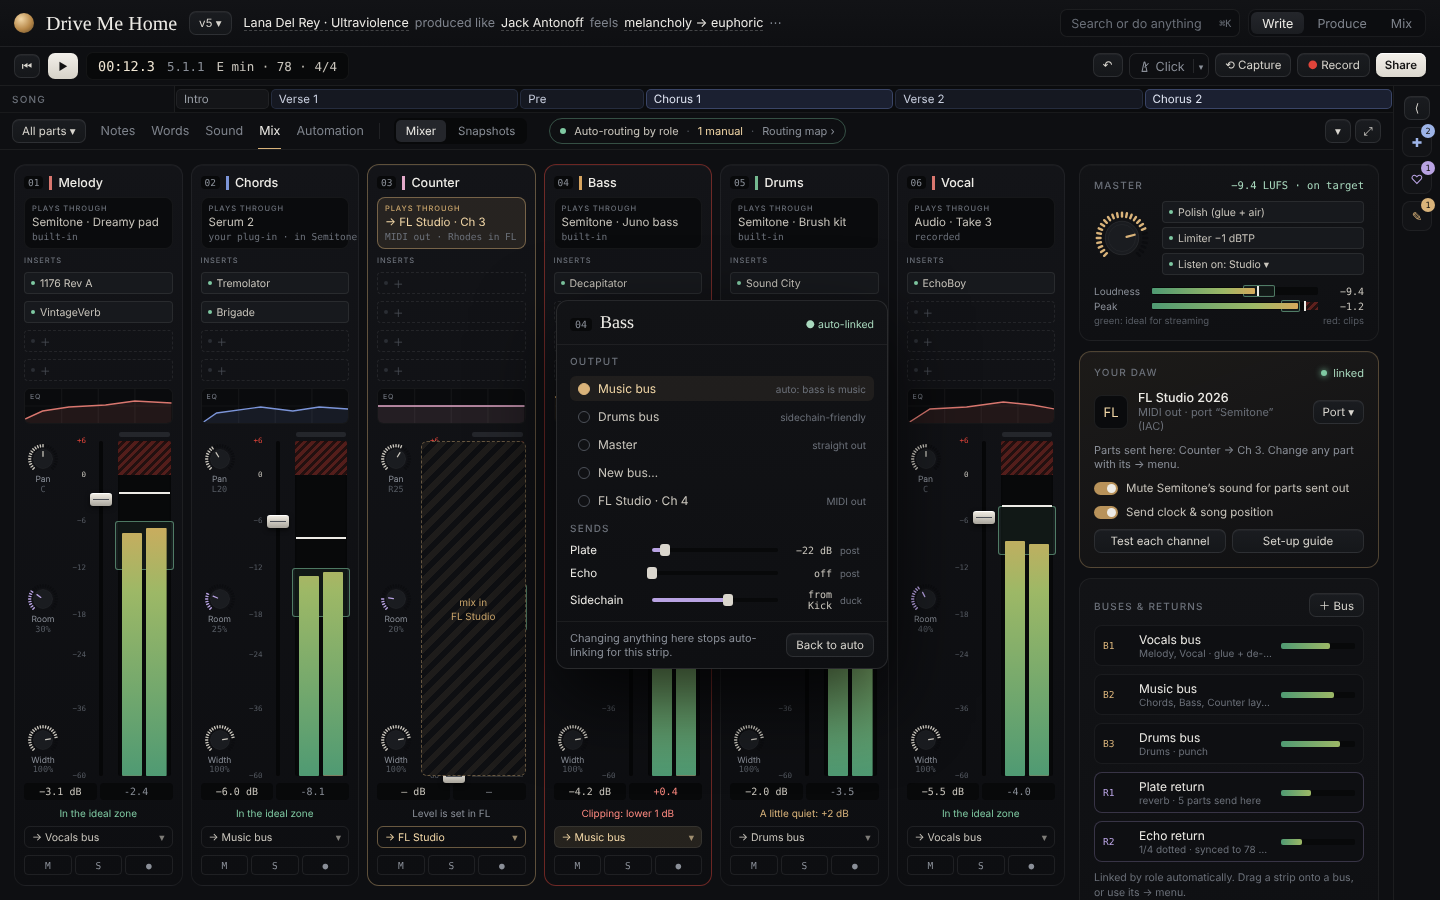
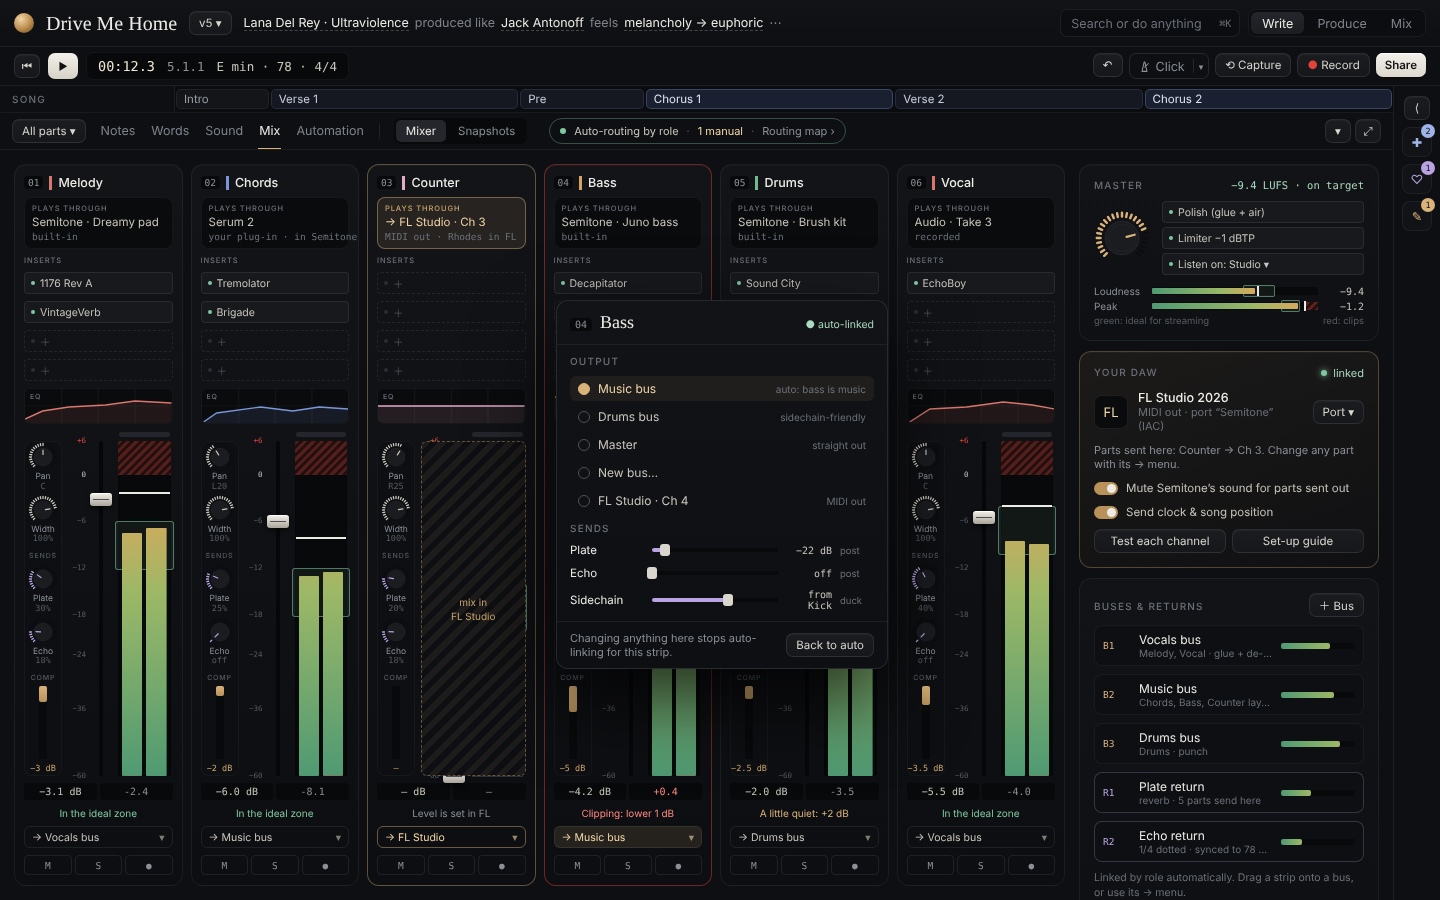
Mixer strips: knobs grouped into one panel (Pan, Width, Sends: Plate, Echo) with a compressor meter filling the rest
Claude-Session: https://claude.ai/code/session_01Gwi5mznyCGAVwjhLcrp4R8

diff --git a/docs/design/panels/reference-Mixer.dc.html b/docs/design/panels/reference-Mixer.dc.html
@@ -59,8 +59,11 @@ button{cursor:pointer;white-space:nowrap}
         <sc-for list="{{s.fx}}" as="f" hint-placeholder-count="4"><span style="height: 20px; display: flex; align-items: center; gap: 5px; padding: 0 6px; border-radius: 4px; background: {{f.bg}}; border: 1px {{f.ls}} rgba(255,255,255,.08); color: {{f.ink}}; font-size: 10.5px; white-space: nowrap; overflow: hidden"><span style="width: 4px; height: 4px; border-radius: 50%; background: {{f.dot}}; flex-shrink: 0"></span>{{f.n}}</span></sc-for>
         <div style="height: 34px; border-radius: 6px; background: #0A0B0D; border: 1px solid rgba(255,255,255,.05); position: relative; overflow: hidden" title="EQ · click to open"><svg viewBox="0 0 100 34" preserveAspectRatio="none" style="position: absolute; inset: 0; width: 100%; height: 100%" aria-hidden="true"><path d="M0 17 H100 M25 0 V34 M50 0 V34 M75 0 V34" stroke="rgba(255,255,255,.04)"></path><path d="{{s.eq}} L100 34 L0 34 Z" fill="{{s.c}}" opacity=".12"></path><path d="{{s.eq}}" fill="none" stroke="{{s.c}}" stroke-width="1.4" vector-effect="non-scaling-stroke"></path></svg><span class="sm" style="position: absolute; left: 5px; top: 3px; font-size: 7px">EQ</span></div>
         <div style="flex: 1; display: grid; grid-template-columns: 38px 1fr; gap: 6px; min-height: 0; padding-top: 10px">
-          <div style="display: flex; flex-direction: column; justify-content: space-between; align-items: center; padding: 2px 0">
-            <sc-for list="{{s.knobs}}" as="k" hint-placeholder-count="3"><span style="display: flex; flex-direction: column; align-items: center"><svg viewBox="0 0 60 60" width="32" height="32" aria-hidden="true"><sc-for list="{{k.seg}}" as="g" hint-placeholder-count="25"><path d="{{g.d}}" stroke="{{g.c}}" stroke-width="2.6" stroke-linecap="round"></path></sc-for><circle cx="30" cy="30" r="18" fill="#1A1C20" stroke="rgba(255,255,255,.08)"></circle><path d="{{k.ptr}}" stroke="{{k.col}}" stroke-width="2.4" stroke-linecap="round"></path></svg><span style="font-size: 8.5px; color: #8A8F98; line-height: 1">{{k.n}}</span><span class="mono" style="font-size: 8.5px; color: #555A62">{{k.v}}</span></span></sc-for>
+          <div style="display: flex; flex-direction: column; align-items: center; gap: 4px; padding: 0 0 2px; border-radius: 8px; background: #0E0F12; border: 1px solid rgba(255,255,255,.04)">
+            <sc-for list="{{s.knobs}}" as="k" hint-placeholder-count="4"><sc-if value="{{k.hd}}" hint-placeholder-val="{{false}}"><span class="sm" style="font-size: 7px; margin-top: 4px; color: #555A62">{{k.hd}}</span></sc-if><span style="display: flex; flex-direction: column; align-items: center"><svg viewBox="0 0 60 60" width="30" height="30" aria-hidden="true"><sc-for list="{{k.seg}}" as="g" hint-placeholder-count="25"><path d="{{g.d}}" stroke="{{g.c}}" stroke-width="2.6" stroke-linecap="round"></path></sc-for><circle cx="30" cy="30" r="18" fill="#1A1C20" stroke="rgba(255,255,255,.08)"></circle><path d="{{k.ptr}}" stroke="{{k.col}}" stroke-width="2.4" stroke-linecap="round"></path></svg><span style="font-size: 8.5px; color: #8A8F98; line-height: 1">{{k.n}}</span><span class="mono" style="font-size: 8.5px; color: #555A62">{{k.v}}</span></span></sc-for>
+            <span class="sm" style="font-size: 7px; margin-top: 4px; color: #555A62">Comp</span>
+            <span title="Compressor gain reduction" style="position: relative; width: 8px; flex: 1; min-height: 46px; border-radius: 2px; background: #08090A"><span style="position: absolute; left: 0; right: 0; top: 0; height: {{s.gr}}%; border-radius: 2px; background: linear-gradient(#D9B37A, #B8925A)"></span></span>
+            <span class="mono" style="font-size: 8.5px; color: #C9A46A">{{s.grt}}</span>
           </div>
           <div style="position: relative; display: grid; grid-template-columns: 20px 22px 1fr; gap: 2px; padding-right: 2px">
             <div style="position: relative">
@@ -147,7 +150,7 @@ function segOf(list, on) { return list.map(function (n) { var o = n === on; retu
     ].map(function (s) { var ext = !!s[14], hot = s[10] > 0, low = /quiet/.test(s[12]);
       var idT = Y(s[11][1]), idB = Y(s[11][0]);
       return { n: s[0], c: s[1], out: s[2], outSub: s[3], fx: fxL(s[4]),
-        knobs: [{ n: 'Pan', v: s[5][1] }, { n: 'Room', v: Math.round(s[6] * 100) + '%' }, { n: 'Width', v: '100%' }].map(function (k, i) { var o = knob(i === 0 ? s[5][0] : i === 1 ? s[6] : .8, i === 1 ? '#B9A3E3' : '#C9C5BC', 32); o.n = k.n; o.v = k.v; return o; }),
+        knobs: [{ n: 'Pan', v: s[5][1], x: s[5][0] }, { n: 'Width', v: '100%', x: .8 }, { n: 'Plate', v: Math.round(s[6] * 100) + '%', x: s[6], hd: 'Sends', c: '#B9A3E3' }, { n: 'Echo', v: s[0] === 'Melody' || s[0] === 'Counter' ? '18%' : 'off', x: s[0] === 'Melody' || s[0] === 'Counter' ? .18 : 0, c: '#B9A3E3' }].map(function (k) { var o = knob(k.x, k.c || '#C9C5BC', 30); o.n = k.n; o.v = k.v; o.hd = k.hd || false; return o; }), gr: ext ? 0 : [22, 14, 0, 35, 18, 26][['Melody', 'Chords', 'Counter', 'Bass', 'Drums', 'Vocal'].indexOf(s[0])], grt: ext ? '—' : '−' + ([3, 2, 0, 5, 2.5, 3.5][['Melody', 'Chords', 'Counter', 'Bass', 'Drums', 'Vocal'].indexOf(s[0])]) + ' dB',
         l1: (100 - Y(s[8])).toFixed(1), l2: (100 - Y(s[9])).toFixed(1), gs1: (100 / Math.max(.01, (100 - Y(s[8])) / 100)).toFixed(0), gs2: (100 / Math.max(.01, (100 - Y(s[9])) / 100)).toFixed(0),
         pk: Y(s[10]).toFixed(1), pkc: hot ? '#E0443A' : '#EDEBE6', clip: hot ? '#E0443A' : '#24262B', peak: ext ? '—' : (s[10] > 0 ? '+' : '') + s[10].toFixed(1), pkInk: hot ? '#FF8A80' : '#8A8F98',
         idT: idT.toFixed(1), idH: (idB - idT).toFixed(1), cap: Y(s[7] === null ? -60 : s[7]).toFixed(1), db: ext ? '— dB' : (s[7] > 0 ? '+' : '') + s[7].toFixed(1).replace('-', '−') + ' dB',

diff --git a/docs/design/panels/reference-Routing.dc.html b/docs/design/panels/reference-Routing.dc.html
@@ -59,8 +59,11 @@ button{cursor:pointer;white-space:nowrap}
         <sc-for list="{{s.fx}}" as="f" hint-placeholder-count="4"><span style="height: 20px; display: flex; align-items: center; gap: 5px; padding: 0 6px; border-radius: 4px; background: {{f.bg}}; border: 1px {{f.ls}} rgba(255,255,255,.08); color: {{f.ink}}; font-size: 10.5px; white-space: nowrap; overflow: hidden"><span style="width: 4px; height: 4px; border-radius: 50%; background: {{f.dot}}; flex-shrink: 0"></span>{{f.n}}</span></sc-for>
         <div style="height: 34px; border-radius: 6px; background: #0A0B0D; border: 1px solid rgba(255,255,255,.05); position: relative; overflow: hidden" title="EQ · click to open"><svg viewBox="0 0 100 34" preserveAspectRatio="none" style="position: absolute; inset: 0; width: 100%; height: 100%" aria-hidden="true"><path d="M0 17 H100 M25 0 V34 M50 0 V34 M75 0 V34" stroke="rgba(255,255,255,.04)"></path><path d="{{s.eq}} L100 34 L0 34 Z" fill="{{s.c}}" opacity=".12"></path><path d="{{s.eq}}" fill="none" stroke="{{s.c}}" stroke-width="1.4" vector-effect="non-scaling-stroke"></path></svg><span class="sm" style="position: absolute; left: 5px; top: 3px; font-size: 7px">EQ</span></div>
         <div style="flex: 1; display: grid; grid-template-columns: 38px 1fr; gap: 6px; min-height: 0; padding-top: 10px">
-          <div style="display: flex; flex-direction: column; justify-content: space-between; align-items: center; padding: 2px 0">
-            <sc-for list="{{s.knobs}}" as="k" hint-placeholder-count="3"><span style="display: flex; flex-direction: column; align-items: center"><svg viewBox="0 0 60 60" width="32" height="32" aria-hidden="true"><sc-for list="{{k.seg}}" as="g" hint-placeholder-count="25"><path d="{{g.d}}" stroke="{{g.c}}" stroke-width="2.6" stroke-linecap="round"></path></sc-for><circle cx="30" cy="30" r="18" fill="#1A1C20" stroke="rgba(255,255,255,.08)"></circle><path d="{{k.ptr}}" stroke="{{k.col}}" stroke-width="2.4" stroke-linecap="round"></path></svg><span style="font-size: 8.5px; color: #8A8F98; line-height: 1">{{k.n}}</span><span class="mono" style="font-size: 8.5px; color: #555A62">{{k.v}}</span></span></sc-for>
+          <div style="display: flex; flex-direction: column; align-items: center; gap: 4px; padding: 0 0 2px; border-radius: 8px; background: #0E0F12; border: 1px solid rgba(255,255,255,.04)">
+            <sc-for list="{{s.knobs}}" as="k" hint-placeholder-count="4"><sc-if value="{{k.hd}}" hint-placeholder-val="{{false}}"><span class="sm" style="font-size: 7px; margin-top: 4px; color: #555A62">{{k.hd}}</span></sc-if><span style="display: flex; flex-direction: column; align-items: center"><svg viewBox="0 0 60 60" width="30" height="30" aria-hidden="true"><sc-for list="{{k.seg}}" as="g" hint-placeholder-count="25"><path d="{{g.d}}" stroke="{{g.c}}" stroke-width="2.6" stroke-linecap="round"></path></sc-for><circle cx="30" cy="30" r="18" fill="#1A1C20" stroke="rgba(255,255,255,.08)"></circle><path d="{{k.ptr}}" stroke="{{k.col}}" stroke-width="2.4" stroke-linecap="round"></path></svg><span style="font-size: 8.5px; color: #8A8F98; line-height: 1">{{k.n}}</span><span class="mono" style="font-size: 8.5px; color: #555A62">{{k.v}}</span></span></sc-for>
+            <span class="sm" style="font-size: 7px; margin-top: 4px; color: #555A62">Comp</span>
+            <span title="Compressor gain reduction" style="position: relative; width: 8px; flex: 1; min-height: 46px; border-radius: 2px; background: #08090A"><span style="position: absolute; left: 0; right: 0; top: 0; height: {{s.gr}}%; border-radius: 2px; background: linear-gradient(#D9B37A, #B8925A)"></span></span>
+            <span class="mono" style="font-size: 8.5px; color: #C9A46A">{{s.grt}}</span>
           </div>
           <div style="position: relative; display: grid; grid-template-columns: 20px 22px 1fr; gap: 2px; padding-right: 2px">
             <div style="position: relative">
@@ -160,7 +163,7 @@ function segOf(list, on) { return list.map(function (n) { var o = n === on; retu
     ].map(function (s) { var ext = !!s[14], hot = s[10] > 0, low = /quiet/.test(s[12]);
       var idT = Y(s[11][1]), idB = Y(s[11][0]);
       return { n: s[0], c: s[1], out: s[2], outSub: s[3], fx: fxL(s[4]),
-        knobs: [{ n: 'Pan', v: s[5][1] }, { n: 'Room', v: Math.round(s[6] * 100) + '%' }, { n: 'Width', v: '100%' }].map(function (k, i) { var o = knob(i === 0 ? s[5][0] : i === 1 ? s[6] : .8, i === 1 ? '#B9A3E3' : '#C9C5BC', 32); o.n = k.n; o.v = k.v; return o; }),
+        knobs: [{ n: 'Pan', v: s[5][1], x: s[5][0] }, { n: 'Width', v: '100%', x: .8 }, { n: 'Plate', v: Math.round(s[6] * 100) + '%', x: s[6], hd: 'Sends', c: '#B9A3E3' }, { n: 'Echo', v: s[0] === 'Melody' || s[0] === 'Counter' ? '18%' : 'off', x: s[0] === 'Melody' || s[0] === 'Counter' ? .18 : 0, c: '#B9A3E3' }].map(function (k) { var o = knob(k.x, k.c || '#C9C5BC', 30); o.n = k.n; o.v = k.v; o.hd = k.hd || false; return o; }), gr: ext ? 0 : [22, 14, 0, 35, 18, 26][['Melody', 'Chords', 'Counter', 'Bass', 'Drums', 'Vocal'].indexOf(s[0])], grt: ext ? '—' : '−' + ([3, 2, 0, 5, 2.5, 3.5][['Melody', 'Chords', 'Counter', 'Bass', 'Drums', 'Vocal'].indexOf(s[0])]) + ' dB',
         l1: (100 - Y(s[8])).toFixed(1), l2: (100 - Y(s[9])).toFixed(1), gs1: (100 / Math.max(.01, (100 - Y(s[8])) / 100)).toFixed(0), gs2: (100 / Math.max(.01, (100 - Y(s[9])) / 100)).toFixed(0),
         pk: Y(s[10]).toFixed(1), pkc: hot ? '#E0443A' : '#EDEBE6', clip: hot ? '#E0443A' : '#24262B', peak: ext ? '—' : (s[10] > 0 ? '+' : '') + s[10].toFixed(1), pkInk: hot ? '#FF8A80' : '#8A8F98',
         idT: idT.toFixed(1), idH: (idB - idT).toFixed(1), cap: Y(s[7] === null ? -60 : s[7]).toFixed(1), db: ext ? '— dB' : (s[7] > 0 ? '+' : '') + s[7].toFixed(1).replace('-', '−') + ' dB',

diff --git a/docs/design/panels/README.md b/docs/design/panels/README.md
@@ -98,8 +98,12 @@ The desktop app records natively (TakeRecorder). Inside a DAW, recording stays w
   its inserts are empty.
 - **Strip layout (no wasted width):**
   - Top to bottom: plays through, four insert slots (empty ones dashed), then a small **EQ curve** in the part colour (click to open the EQ).
-  - At the bottom, a two-column **fader area**. The left column stacks the **Pan, Room and Width** knobs (same LED-ring knob, label and value
-    under each), so they no longer sit in a row above the fader. The right column has a **dB scale** (+6, 0, −6, −12, −18, −24, −36, −60, with 0 in
+  - At the bottom, a two-column **fader area**. The left column is one small rounded **knob panel** (slightly darker than the strip, 8 px corners)
+    filled top to bottom with no even-spaced gaps: **Pan** and **Width** (30 px LED-ring knobs, label and value under each, 4 px apart), a tiny
+    "SENDS" label, **Plate** and **Echo** send knobs (lilac ring, "off" when 0), then a "COMP" label and a thin **gain-reduction meter** (8 px wide,
+    brass fill growing down from the top, value like "−3 dB" under it) that stretches to fill whatever height is left, so the panel always ends
+    level with the fader. Parts mixed in your DAW show "—". (Replaces the earlier Pan / Room / Width column, whose three knobs were spread
+    with large gaps; Room is now the Plate send.) The right column has a **dB scale** (+6, 0, −6, −12, −18, −24, −36, −60, with 0 in
     the text colour and +6 in red), the fader with a metal cap, and a full-width stereo meter.
 - **The meter:**
   - Green → yellow → red gradient that reaches red only near 0 dB.
